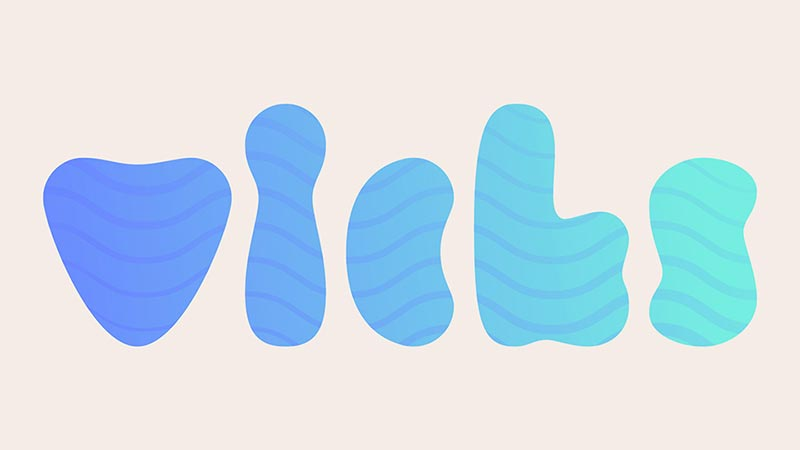
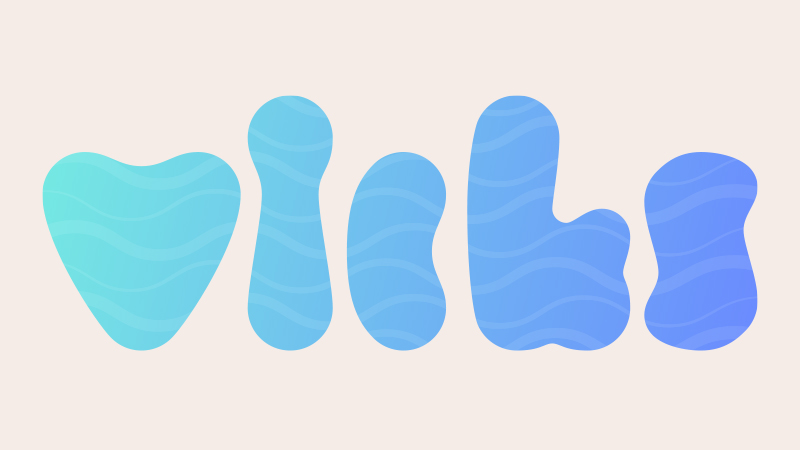
vicks update

Changed region(s): [[0.4688, 0.1867, 0.9688, 0.7778], [0.0312, 0.1867, 0.4688, 0.7778], [0.4375, 0.3733, 0.4688, 0.4667]]

diff --git a/sites/vicks.html b/sites/vicks.html
@@ -48,13 +48,19 @@
 		<div id="project_body" class="vicks_body_color">
 			<div id="content_box">
 				<div class="project_title">vicks</div>
-				<img src="../projects/vicks/1.gif" class="content_slides slides">
-				<img src="../projects/vicks/2.jpg" class="content_slides slides not1">
-				<img src="../projects/vicks/3.jpg" class="content_slides slides not1">
-				<img src="../projects/vicks/4.jpg" class="content_slides slides not1">
-				<img src="../projects/vicks/5.jpg" class="content_slides slides not1">
-				<img src="../projects/vicks/6.jpg" class="content_slides slides not1">
-				<img src="../projects/vicks/7.jpg" class="content_slides slides not1">
+				<img src="../projects/vicks/1.png" class="content_slides slides">
+				<img src="../projects/vicks/2.png" class="content_slides slides not1">
+				<img src="../projects/vicks/3.png" class="content_slides slides not1">
+				<img src="../projects/vicks/4.png" class="content_slides slides not1">
+				<img src="../projects/vicks/5.png" class="content_slides slides not1">
+				<img src="../projects/vicks/6.png" class="content_slides slides not1">
+				<img src="../projects/vicks/7.png" class="content_slides slides not1">
+				<img src="../projects/vicks/8.png" class="content_slides slides not1">
+				<img src="../projects/vicks/9.png" class="content_slides slides not1">
+				<img src="../projects/vicks/10.png" class="content_slides slides not1">
+				<img src="../projects/vicks/11.png" class="content_slides slides not1">
+				<img src="../projects/vicks/12.png" class="content_slides slides not1">
+				<img src="../projects/vicks/13.png" class="content_slides slides not1">
 				<div class="description">
 					Brand Identity Assignment &#8212; Update an existing brand.<br><br>My approach to this brand update was to reinvent pharmaceutical packaging for the brand 'Vicks'. The logo revision was influenced by the existing logo's triangular container which informed the shape of the 'V' and lead to the rest of the letters getting a similar 'coated' treatment. The goal was to create a unique identity that stands out playfully in one of the most overwhelming aisles in superstores. If someone is desperate for symptom relief it can be exhausting to sift through shelves with hundreds of products and brands trying to find exactly what they need. 
 			</div>
